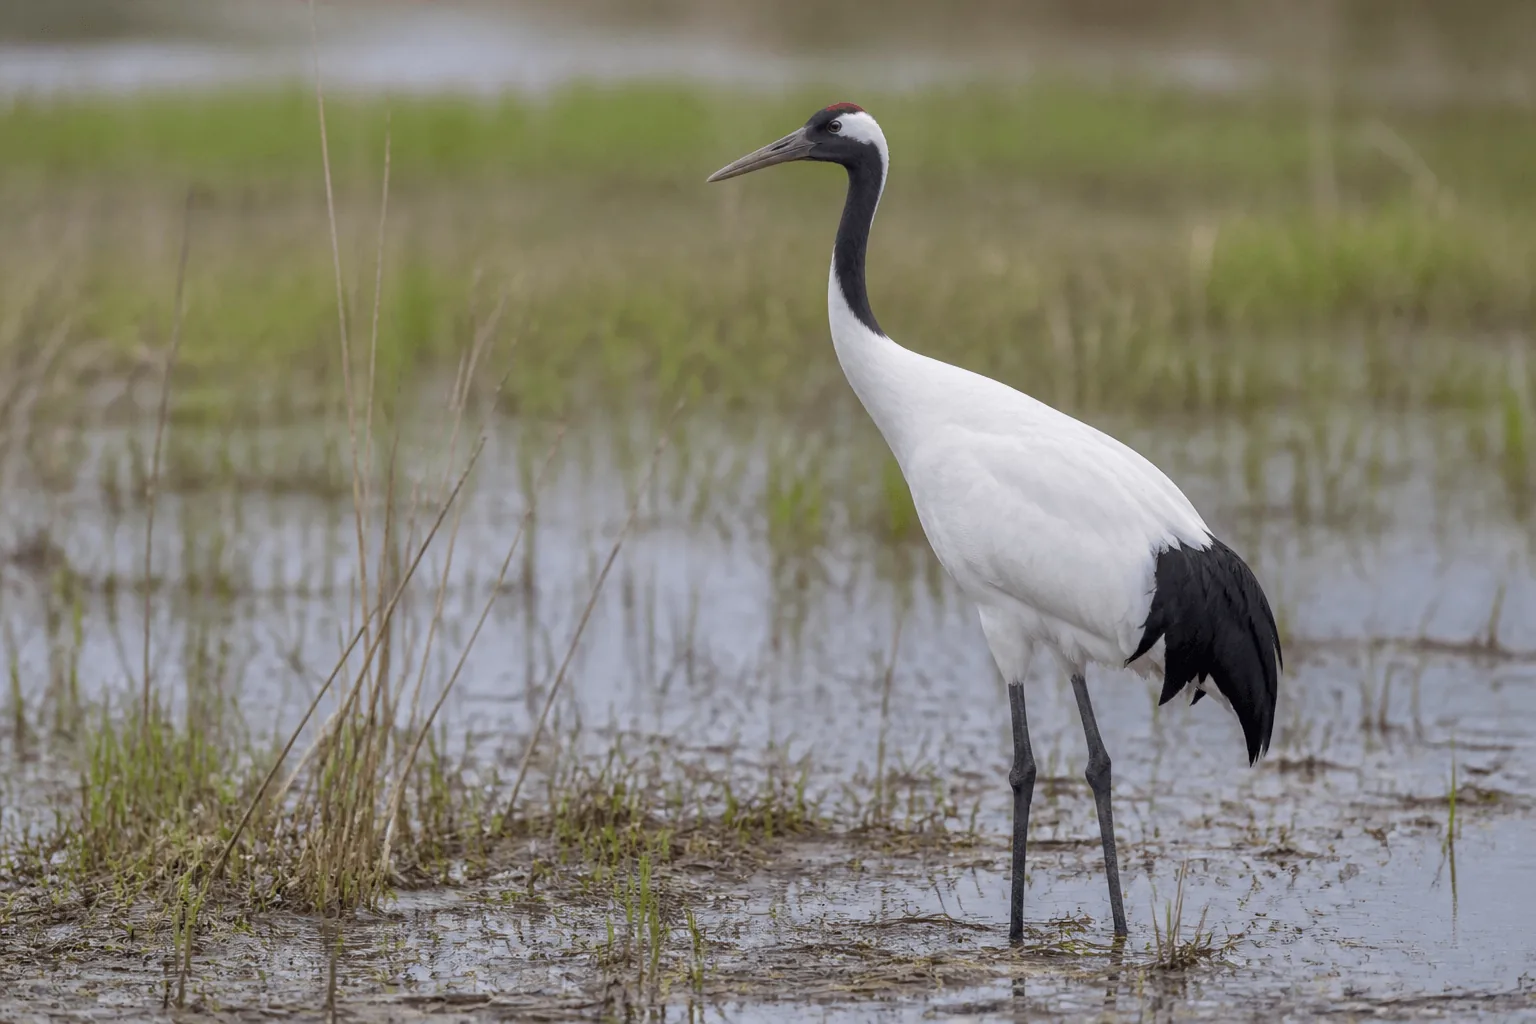
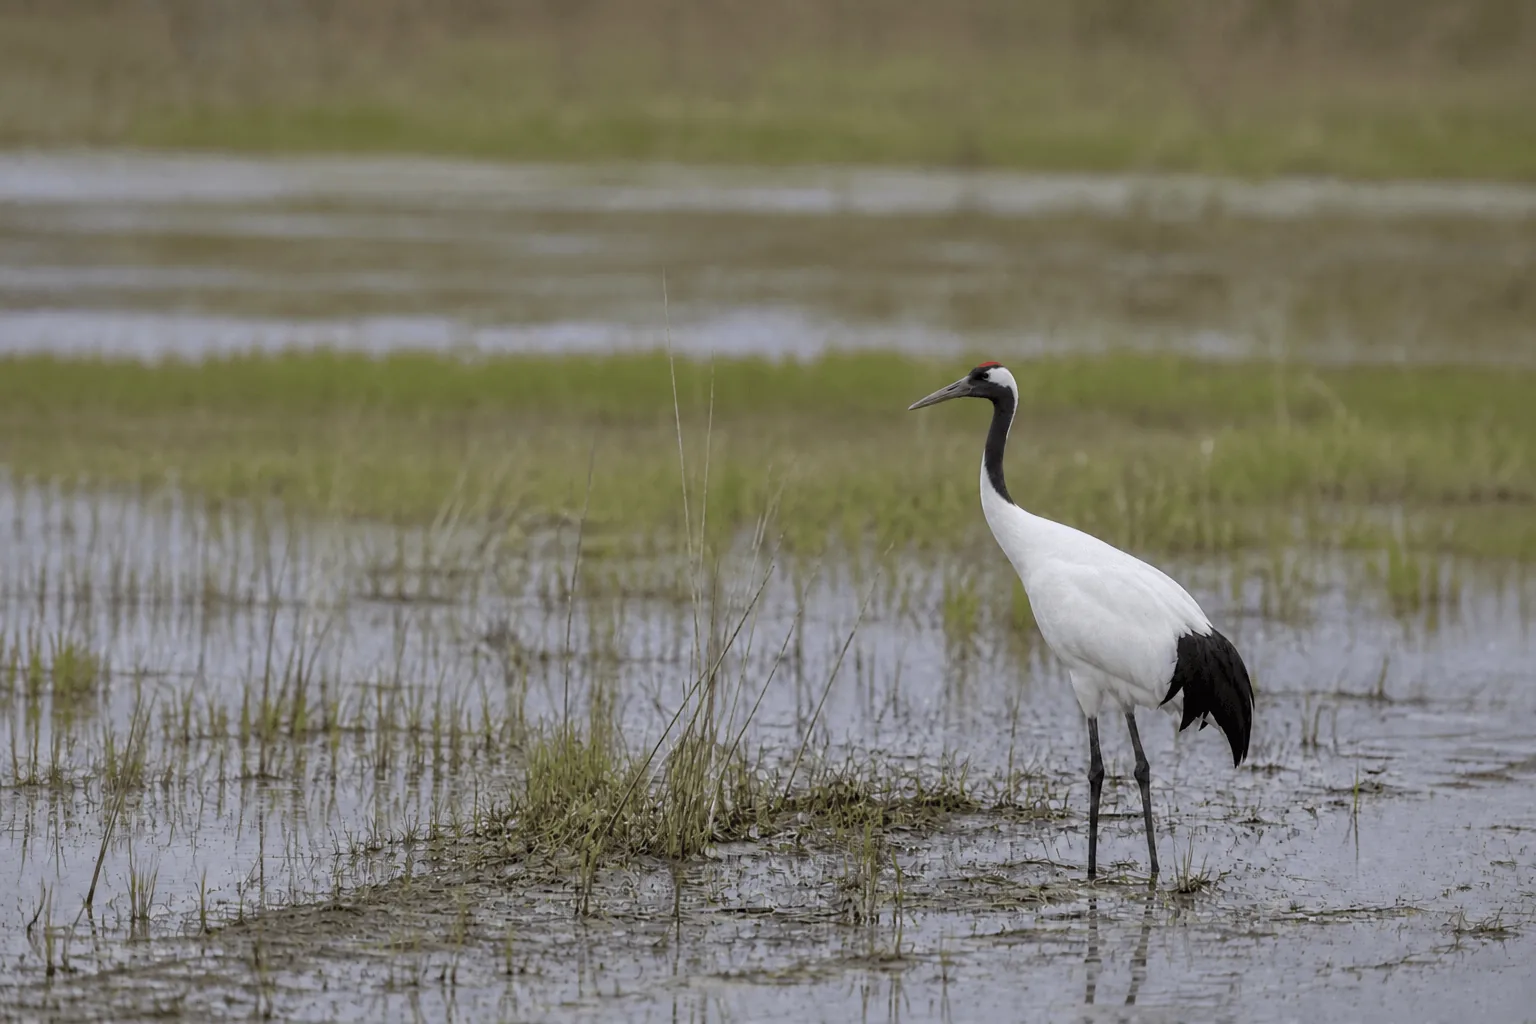
fix(hero): keep monkey and crane heads inside carousel

diff --git a/src/styles.css b/src/styles.css
@@ -1746,6 +1746,7 @@
     height: 100%;
     object-fit: cover;
     object-position: var(--focal-x, 50%) var(--focal-y, 50%);
+    transform-origin: center center;
   }
 
   .hero__image--entering-forward,

diff --git a/src/assets/source/species/red-crowned-crane/README.md b/src/assets/source/species/red-crowned-crane/README.md
@@ -22,6 +22,8 @@ These six original project images were generated on 2026-08-25 with OpenAI's bui
 | 05 | `05-coastal-winter-foraging-source.png` | `05-coastal-winter-foraging.webp` | Exactly two adults use a winter tidal flat; one probes a shallow pool while the other stands upright; no juvenile, visible prey, feeding hand or grain is present. |
 | 06 | `06-distance-conservation-monitoring-source.png` | `06-distance-conservation-monitoring.webp` | Exactly two small field observers remain on a levee, one using a tripod-mounted scope and one recording; exactly one adult crane stands across a broad wetland buffer with no capture, handling or feeding. |
 
+Image 01 was reframed with the built-in image generation editor on 2026-09-03 for the landing-page carousel. The crane now occupies roughly half the canvas height on the right, with open marsh above its crown and across the left side. A second localized edit restored the small exposed red crown patch without changing the accepted composition.
+
 ## Scientific and editorial boundaries
 
 - Every adult represents the Red-crowned Crane, *Grus japonensis*: tall white body; black lower face, throat and front neck; white rear-neck stripe; long straight gray-olive bill; long dark legs; one small bare red crown patch. The red patch is exposed skin, not a feather crest or full red face.
@@ -36,7 +38,7 @@ These six original project images were generated on 2026-08-25 with OpenAI's bui
 
 ## Final generation prompts
 
-Each accepted source came from one independent built-in imagegen call with no input image or edit chain.
+The initial six sources came from independent built-in imagegen calls. Image 01 later received the documented hero-safe edit chain below.
 
 ### 01 · Red crown marsh portrait
 
@@ -50,6 +52,14 @@ Composition/framing: Eye-level medium-wide horizontal field photograph. Place th
 Lighting/mood: Soft overcast early-morning light, restrained cool-neutral color, real feather texture and subtle wetland haze, calm observational mood, museum-publication realism.
 Species exclusions: This is Grus japonensis, not Siberian Crane, Whooping Crane, White-naped Crane, Black-necked Crane, stork, heron or egret. The red is exposed skin only on the top crown, never a red feather crest or a full red facial mask. No all-white neck, no gray body, no black wing tips visible on folded wings, no S-curved heron neck, no webbed feet.
 Constraints: EXACTLY ONE BIRD TOTAL; one head, one bill, one crown patch, two folded wings, two legs and two feet; anatomically coherent; no cropped anatomy, extra limbs, duplicated feathers, prey, nest, egg, chick, band, tag, feeding station, text, logo, signature, border, collage or watermark. Photorealistic wildlife photography, not CGI, illustration, painting, stock-photo gloss or fantasy.
+```
+
+#### Hero-safe reframe edits · 2026-09-03
+
+```text
+Pass 1: Precisely reframe the same single adult Red-crowned Crane and marsh for a Fauna Atlas landing-page hero. Zoom out until the bird occupies roughly half the canvas height, move it lower and farther right, preserve the complete bill, body, legs and feet, and expand quiet marsh above the head and across the left side. Keep the exact 1536×1024 3:2 canvas, anatomy, lighting and naturalistic editorial style. Add no birds, text, borders or artifacts.
+
+Pass 2: Change only the crown by restoring a small, anatomically accurate patch of bare vivid vermilion-red skin centered on top of the adult crane's head. Preserve the exact pose, bill, plumage, scale, position, framing, lighting and marsh background.
 ```
 
 ### 02 · Hokkaido snow courtship duet
@@ -134,8 +144,9 @@ Constraints: EXACTLY ONE BIRD AND EXACTLY TWO PEOPLE TOTAL; one spotting scope, 
 - All six TinyPNG-compressed source files decode as 1536 × 1024, 8-bit indexed-color PNGs; `sips` reports RGB space and no alpha.
 - All six runtime files decode as 1536 × 1024, opaque VP8 WebP; `file` identifies Web/P data rather than renamed PNG data.
 - Source and runtime basenames form six one-to-one pairs after removing `-source`.
-- TinyPNG reduced the six sources from 15,022.2 KB to 5,058.1 KB, a 66.3% reduction.
-- `cwebp -q 82 -m 6 -mt` produced six runtime files totaling 1,001.6 KB, an 80.2% reduction from the compressed sources.
+- The six current TinyPNG-compressed sources total 5,136.4 KB.
+- `cwebp -q 82 -m 6 -mt` produced six runtime files totaling 999.3 KB, an 80.5% reduction from the compressed sources.
 - Source and WebP files were each inspected with `view_image`; no material conversion artifact or content drift appeared.
+- Cover-crop regression keeps image 01's complete head and bill at least 24 CSS pixels inside `320×760`, `390×760`, `1366×768`, `1920×900`, `2560×900` and `3840×900` hero crops; the two extreme crops were also inspected as rendered pixels.
 - Visual checks covered bird and human counts, bare crown skin, face and neck pattern, folded tertiary drape, open-wing primary/secondary pattern, straight migration posture, chick plumage, nesting-water context, feeding context, distance-monitoring buffer, and the absence of text or branding.
 - No GUI or headless browser was used.

diff --git a/src/assets/source/species/golden-snub-nosed-monkey/README.md b/src/assets/source/species/golden-snub-nosed-monkey/README.md
@@ -20,6 +20,8 @@ Codex's built-in image generation tool created these six original project images
 
 Image 06 replaced an initial draft in which the distant animal and its tail were too small to read. The accepted regeneration enlarges the monkey without turning the monitoring scene into a close portrait.
 
+Image 01 was reframed with the built-in image generation editor on 2026-09-03 for the landing-page carousel. The revision makes the monkey roughly half the canvas height and places it lower on the right, leaving enough forest above the crown and across the left side for wide `object-fit: cover` crops and page copy.
+
 ## Evidence boundaries
 
 - The broad flat upturned nose, pale blue to muted violet eye skin, pale muzzle, dark crown and upper back, golden-orange coat, dark hands and feet, and long non-prehensile tail anchor the reconstructions to *R. roxellana*. Appearance alone cannot establish a subspecies, locality or wild provenance.
@@ -40,7 +42,7 @@ Depict Rhinopithecus roxellana with a broad flat extremely short upturned nose a
 
 The prompts stay at species level. Mammal Diversity Database treats the named Qinling and Hubei forms as synonyms, while other taxonomic treatments still recognize subspecies; a generated coat cannot resolve that disagreement.
 
-## Final prompts
+## Generation prompts
 
 ### 01 · Snowy forest portrait
 
@@ -56,6 +58,12 @@ Lighting/mood: soft overcast winter daylight, quiet and observational, realistic
 Text: none.
 Constraints: exactly one animal; fully visible adult male; correct species anatomy and coloration; complete non-prehensile long tail; no cropped hands, feet, digits, limbs, or tail; original image; no text, letters, captions, borders, logos, signatures, or watermarks.
 Avoid: any additional animal or reflected animal; macaque red face; baboon-like long muzzle; proboscis-monkey drooping nose; orangutan, gibbon, lemur, lion, or lion-mane traits; prehensile or tightly curled gripping tail; short tail; whole blue face; fluorescent blue; all-gold body without dark crown and upper back; exaggerated mane; bare chest; albinism; zoo, enclosure, fence, cage, people, clothing, collar, feeding platform; malformed, duplicated, fused, missing, or extra limbs, hands, feet, fingers, toes, or tail; cropped anatomy; illustration, painting, composite collage, 3D render, or CGI.
+```
+
+#### Hero-safe reframe edit · 2026-09-03
+
+```text
+Precisely reframe the same single adult male and snowy forest for a Fauna Atlas landing-page hero. Zoom out until the monkey occupies roughly half the canvas height, move it lower and farther right, preserve the complete body and long tail, and expand quiet snowy forest above the head and across the left side. Keep the exact 1536×1024 3:2 canvas, species markings, anatomy, lighting and naturalistic editorial style. Add no animals, text, borders or artifacts.
 ```
 
 ### 02 · Adult-male morphology
@@ -142,6 +150,7 @@ Avoid: tiny unrecognizable animal, hidden or missing tail, tail merging into a b
 - All six runtime files decode as opaque 1536 × 1024 single-frame lossy VP8 WebP files.
 - Source and runtime basenames form six one-to-one pairs.
 - The accepted runtime focal points, in frame order, are `(0.72, 0.53)`, `(0.49, 0.51)`, `(0.72, 0.53)`, `(0.40, 0.49)`, `(0.52, 0.50)` and `(0.77, 0.35)`.
+- Cover-crop regression keeps image 01's complete head at least 24 CSS pixels inside `320×760`, `390×760`, `1366×768`, `1920×900`, `2560×900` and `3840×900` hero crops; the two extreme crops were also inspected as rendered pixels.
 - Original-resolution inspection found one cover male; one side-view male; one habitat-dominant forest; one lichen-feeding monkey; exactly four separated group members; and exactly two observers with one distant monkey.
 - Static inspection found no readable text, logos, watermarks, zoo cues, collars, handling, traps or provisioning.
 - Verification used no GUI or headless browser.
